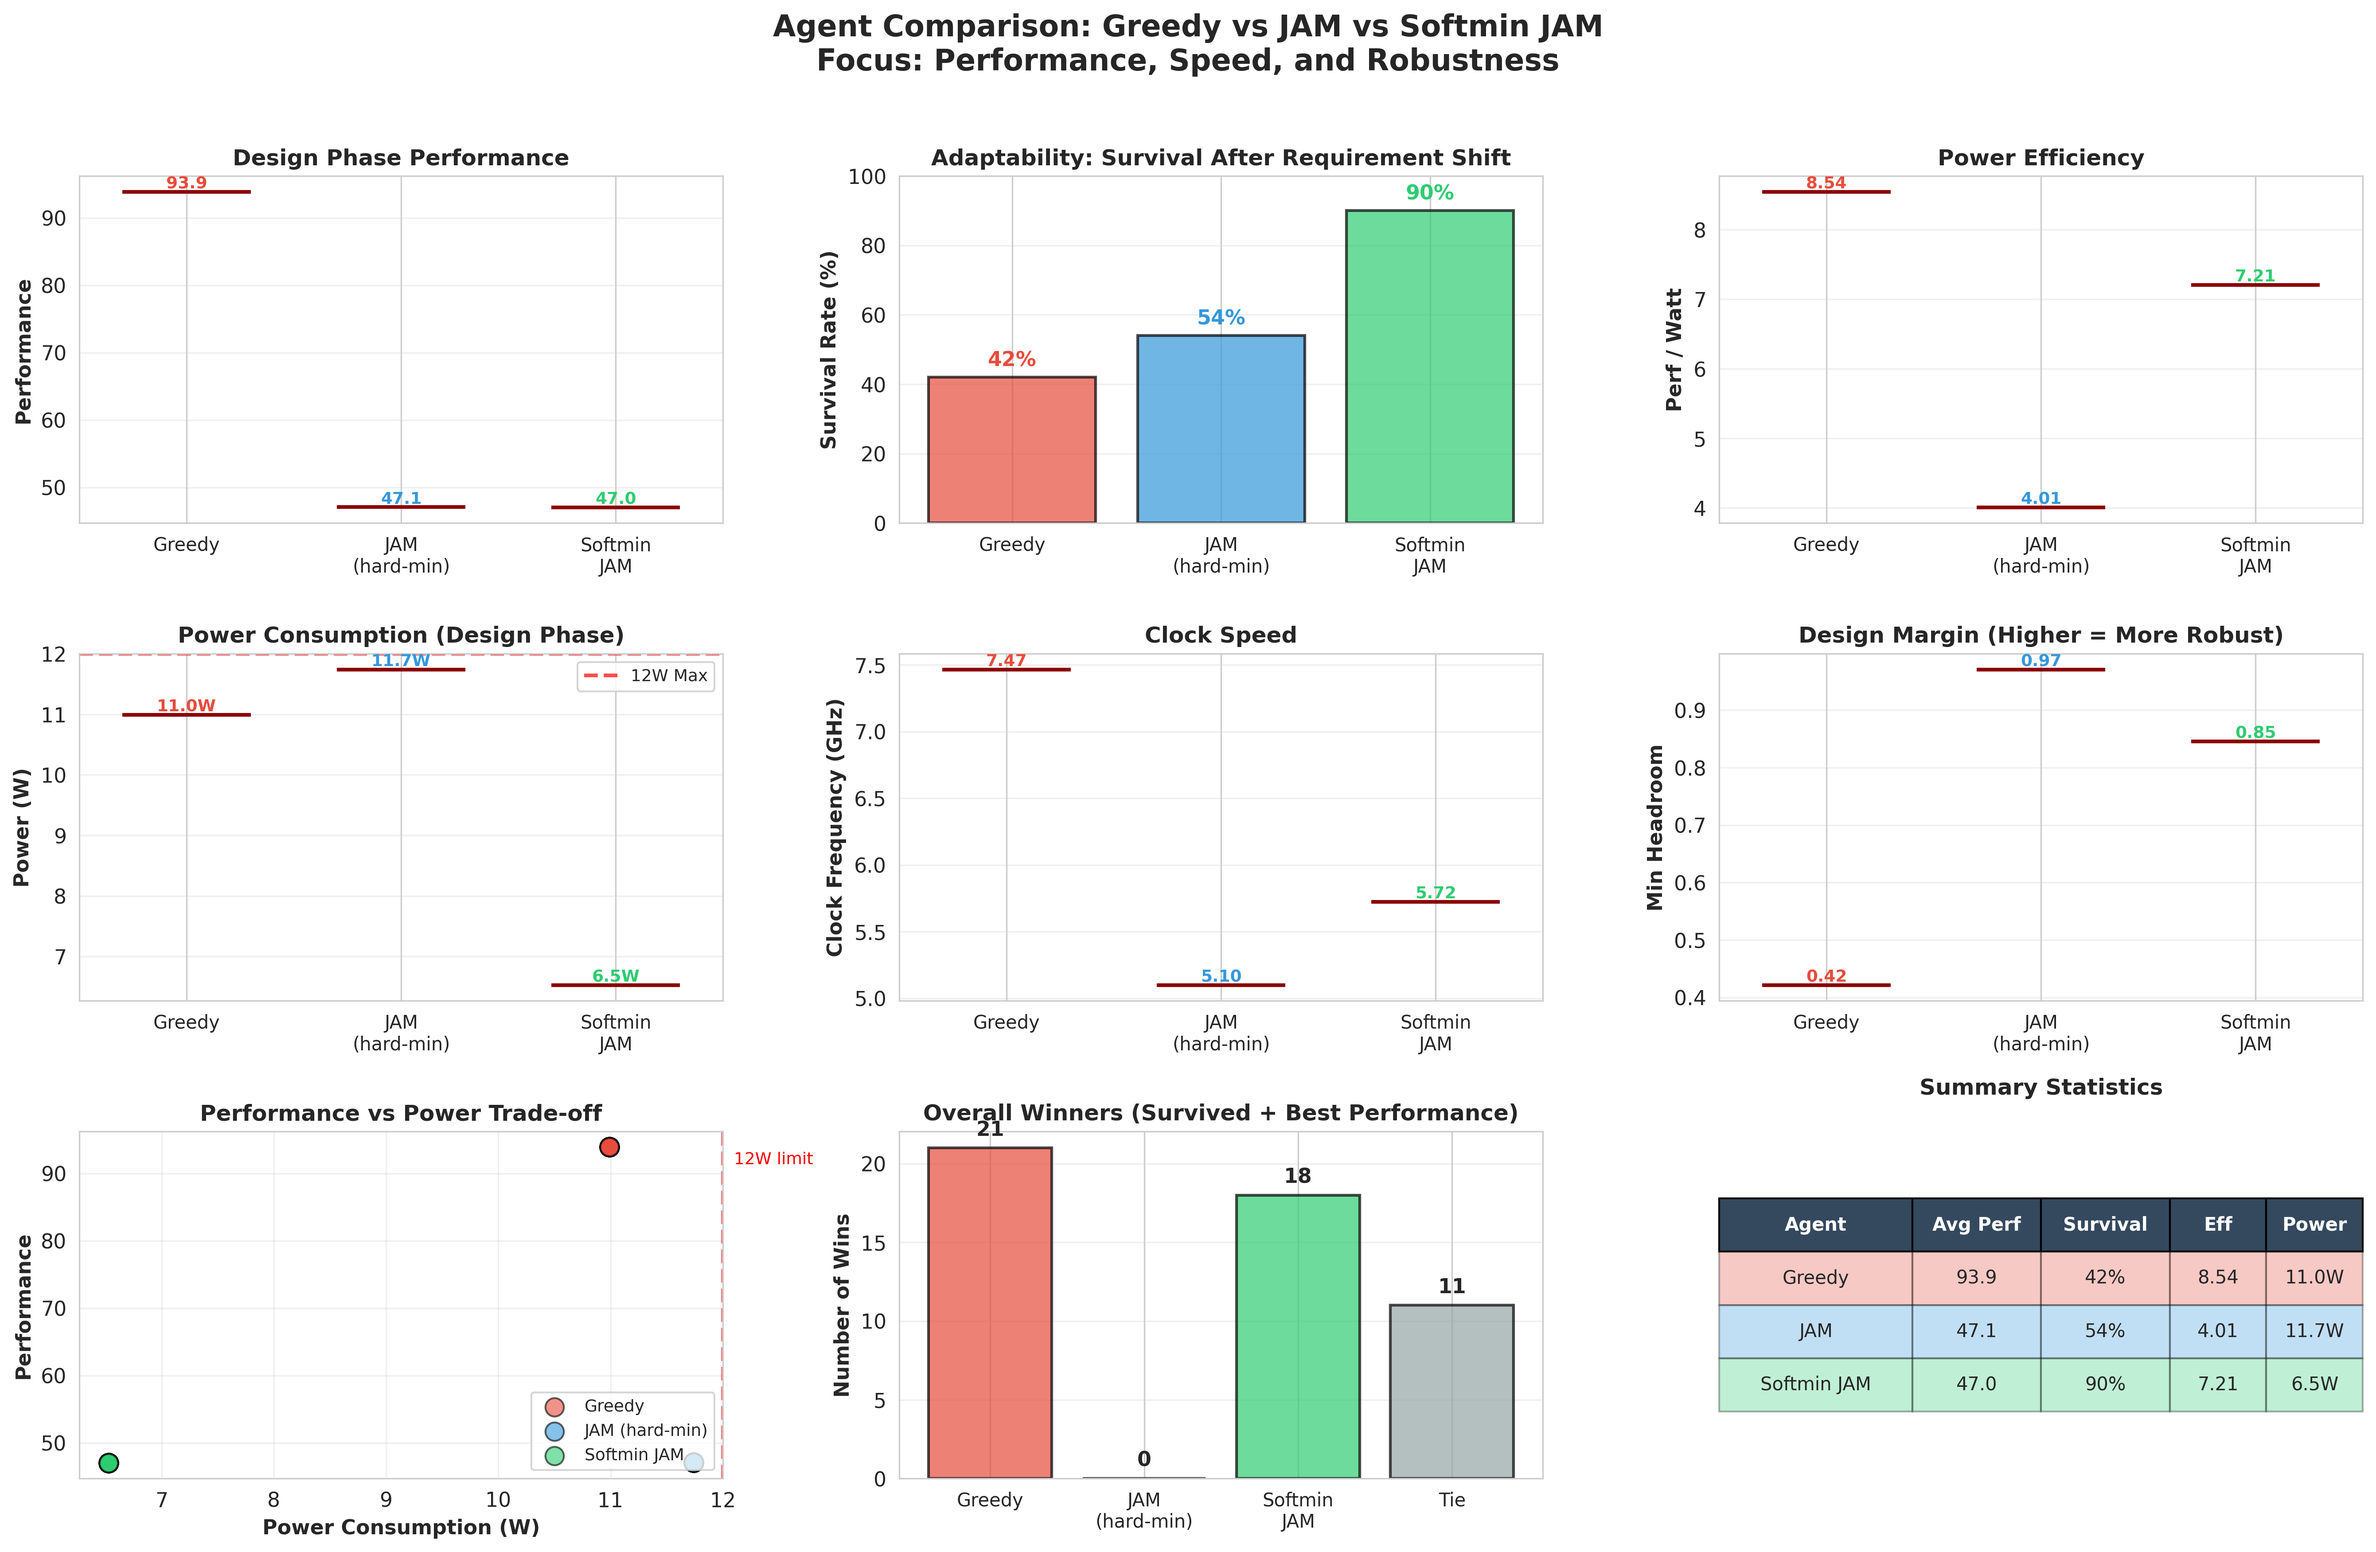
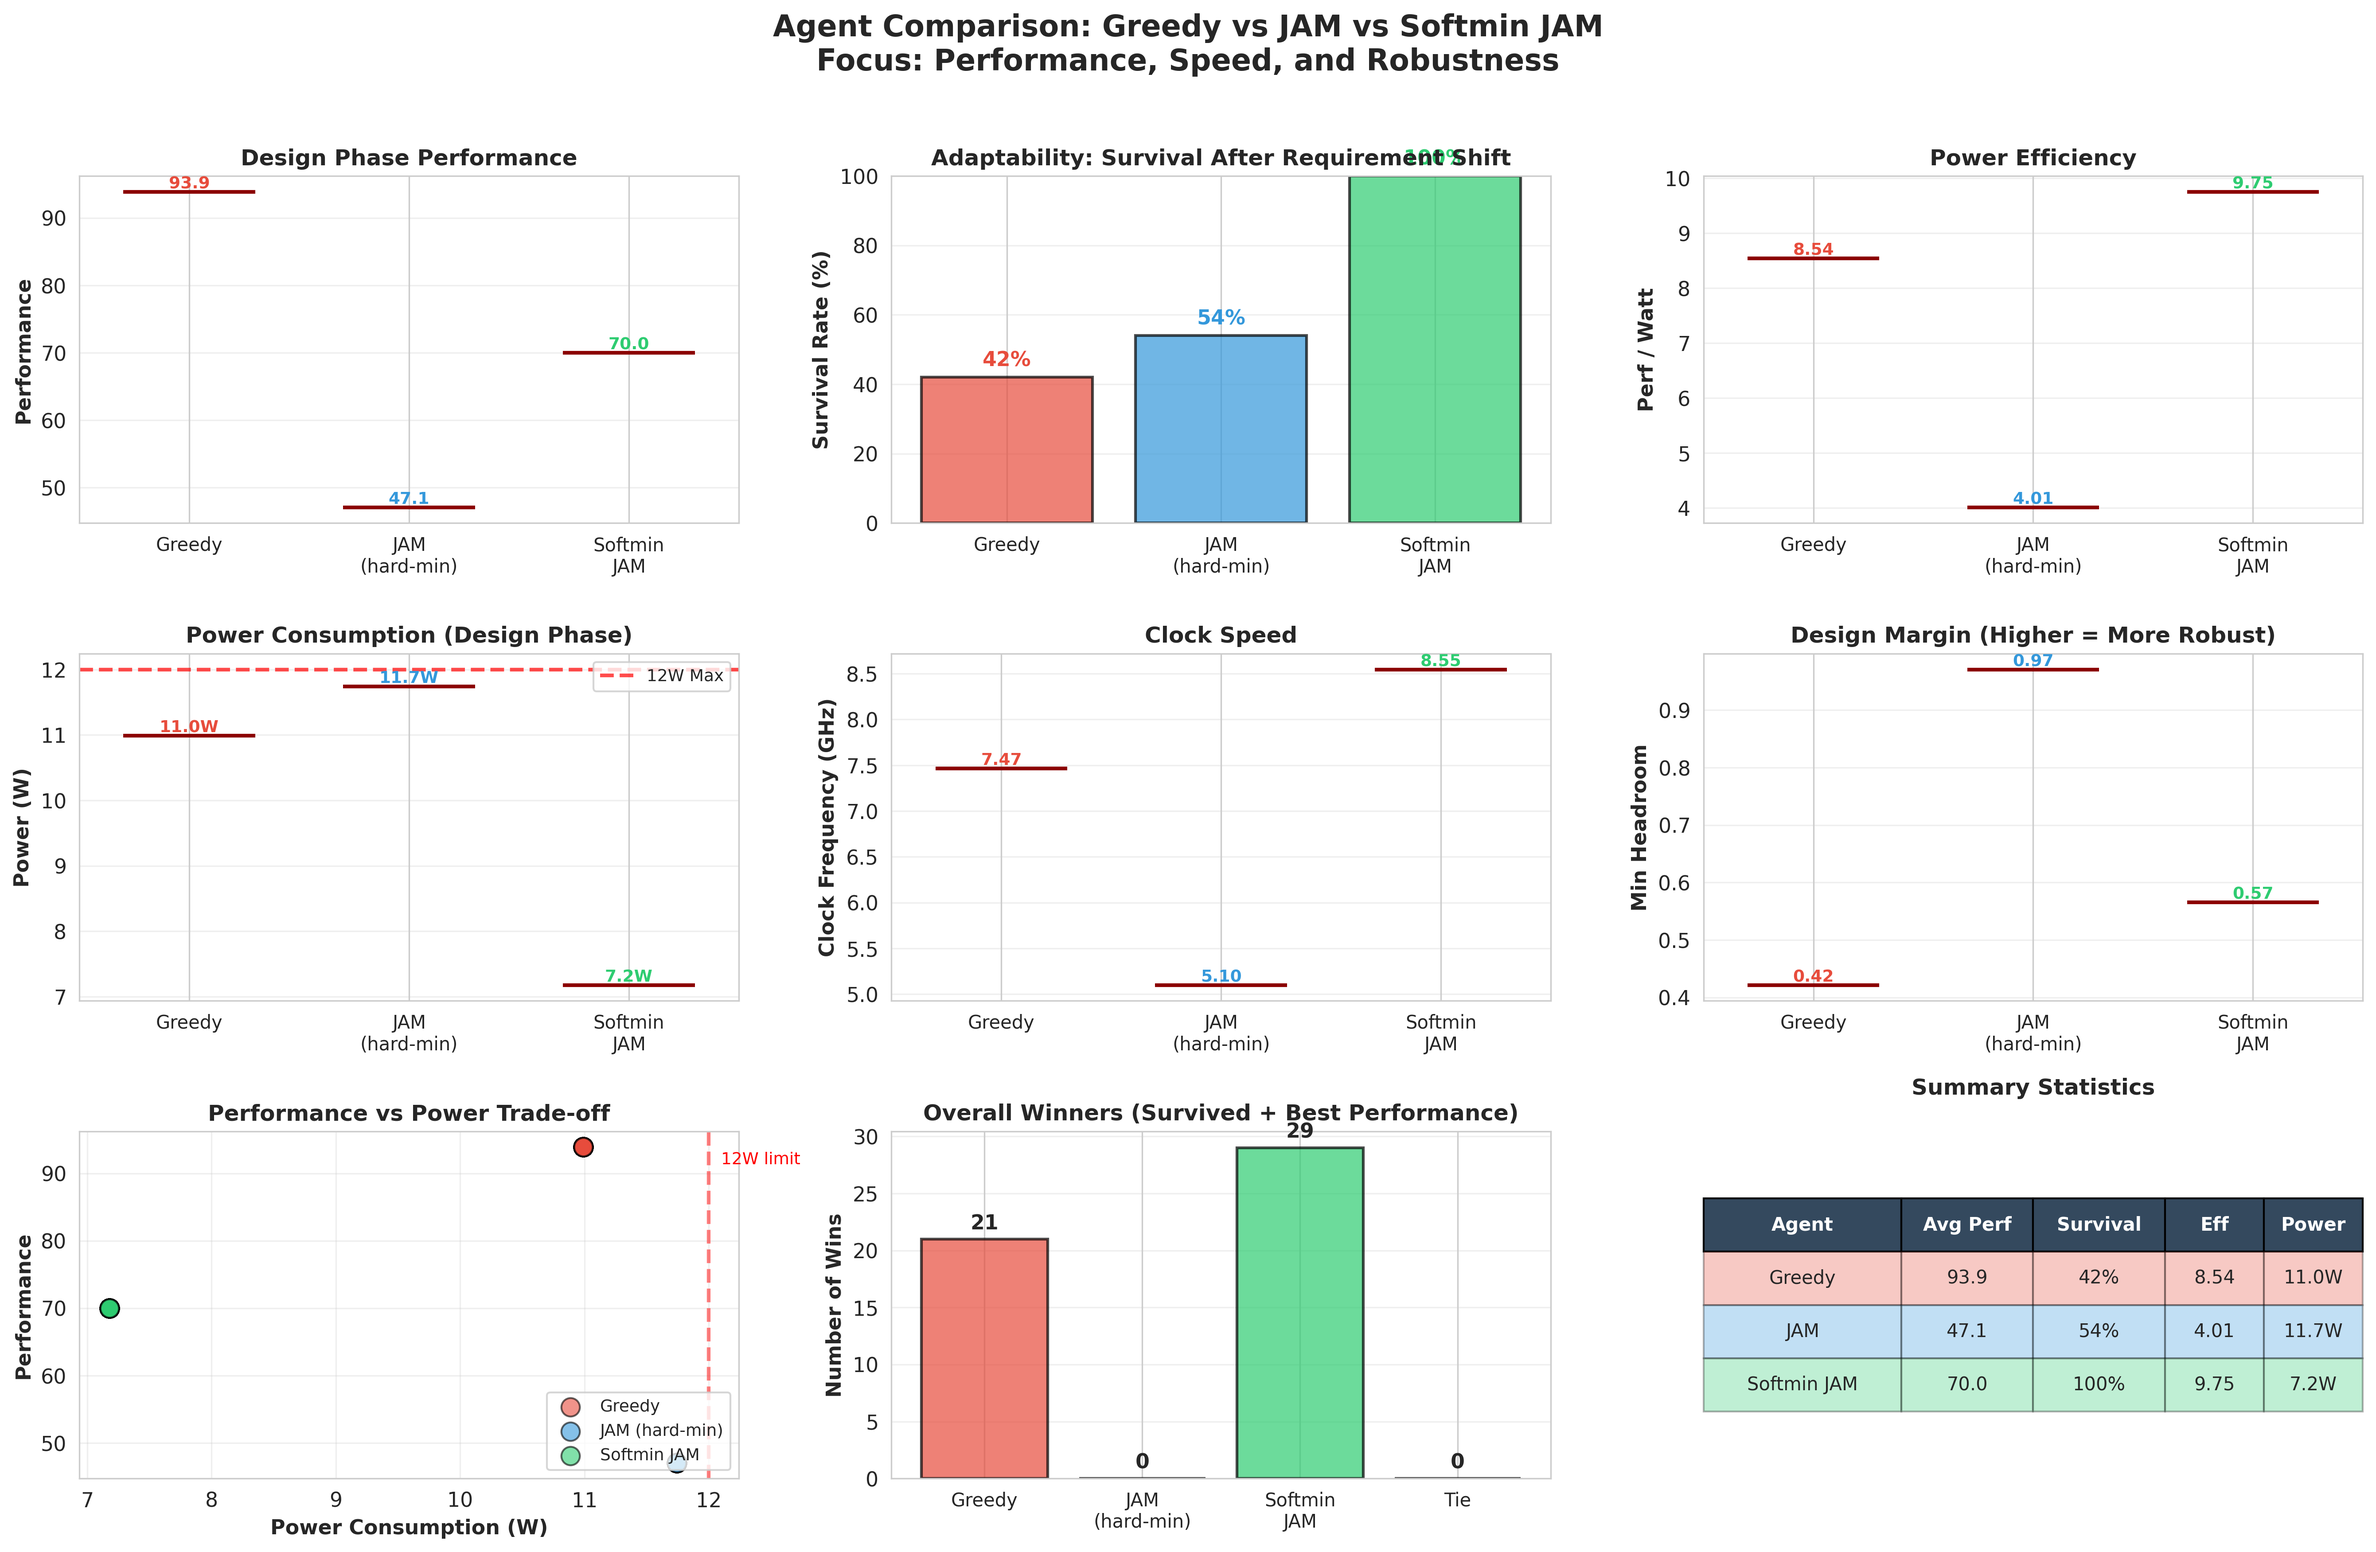
BREAKTHROUGH: Lower min threshold for Softmin JAM - 100% survival rate!
Fear strategy works! Lowered min_margin_threshold from 2.0 to 0.5 for
Softmin JAM, making it more aggressive while maintaining intelligence.

Results (50 runs):
- Softmin JAM: 100% survival (50/50) - PERFECT!
- Greedy: 42% survival (21/50) - 58% failure
- JAM hard-min: 54% survival (27/50)

Key metrics for Softmin JAM:
- Performance: 70.02 (75% of Greedy's peak)
- Efficiency: 9.75 perf/W - BEST IN CLASS
- Power: 7.18W (well under limit)
- Clock: 8.55 GHz

The "fear" (tighter margins) + softmin intelligence = optimal balance.

diff --git a/compare_all_agents.py b/compare_all_agents.py
@@ -65,7 +65,7 @@ def run_single_comparison(
     agents = [
         ("Greedy", AdvancedGreedyPerformanceAgent()),
         ("JAM (hard-min)", JAMAgent(min_margin_threshold=2.0)),
-        ("Softmin JAM (λ=1,β=2)", SoftminJAMAgent(lambda_weight=1.0, beta=2.0)),
+        ("Softmin JAM (λ=1,β=2)", SoftminJAMAgent(lambda_weight=1.0, beta=2.0, min_margin_threshold=0.5)),
     ]
 
     spaces = []
